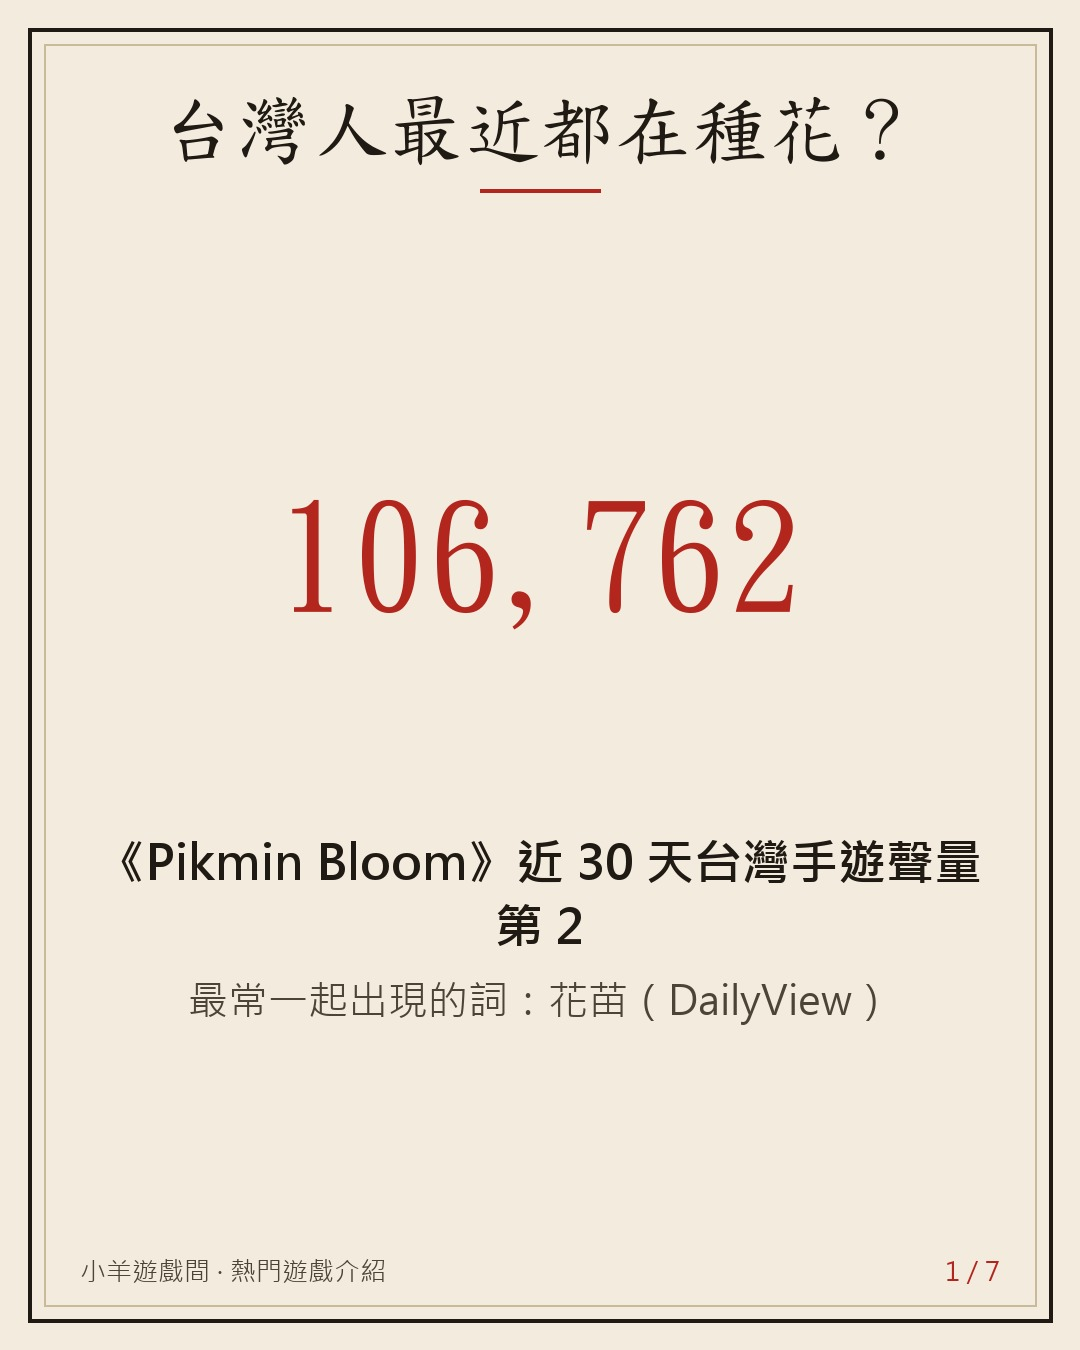
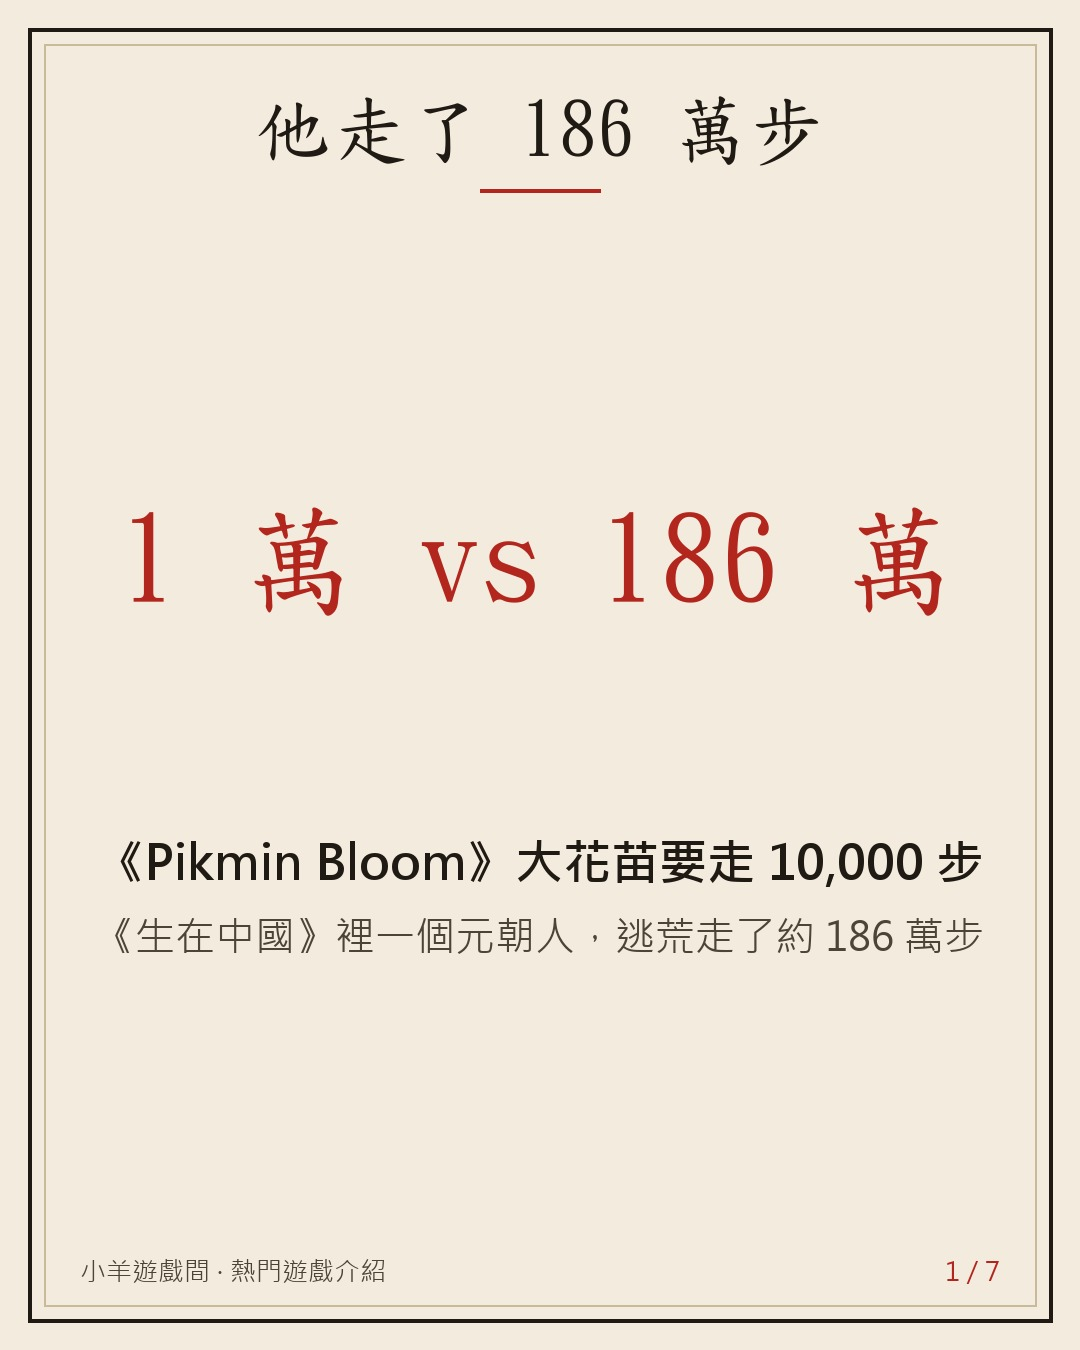
vault backup: 2026-10-24 22:38:15

diff --git a/Projects/auto promotion/posts/2.md b/Projects/auto promotion/posts/2.md
@@ -1,0 +1,147 @@
+---
+id: 2
+type: popular
+game: Pikmin Bloom
+topic: "Pikmin Bloom：走路養花苗 × 古人一輩子走多遠（生在中國 97.6% 沒離開出生那一區）"
+status: 草稿
+created: 2026-10-25 13:55
+score:
+---
+# 大花苗 10,000 步，他走了 186 萬步：我去查了《Pikmin Bloom》
+
+## Threads
+### 1
+《Pikmin Bloom》的大花苗，要走 10,000 步。
+我們遊戲裡跑出一個元朝人：他逃荒走了大約 186 萬步，一路沒有花。
+
+先說這個最近很紅的走路遊戲，我好奇去翻了一下它怎麼設計的 👇
+![[2/01.jpg]]
+### 2
+DailyView 9/25–10/24 的熱門手遊聲量，它 106,762 筆，排第 2，只輸神魔之塔。熱門關鍵字是「花苗」。
+
+它是 Niantic 和任天堂合作的，2021 年 10 月底起陸續上架，免費（有內購）。
+上架兩週，下載兩百萬。
+
+玩法很簡單：
+你走路，手機記步數。
+步數把花苗養大，拔出來就是一隻皮克敏，跟在你後面一起走。
+走過的地方會開花，留下一條彩色的路。
+
+簡單講，它把「今天有沒有出門」畫成一張地圖。
+![[2/02.jpg]]
+### 3
+花苗要走幾步才長大？（NOWnews 的整理）
+紅、黃、藍：1,000 步
+紫、白：3,000 步
+羽翅、岩石、冰凍：5,000 步
+大花苗：10,000 步，可以長出戴飾品的皮克敏
+
+10/10–11 的社群日，也是一天走滿 10,000 步才拿得到徽章。
+所以在這個遊戲裡，一萬步是「大目標」。
+![[2/03.jpg]]
+### 4
+我最喜歡的設計，在官方說明裡一句話帶過：
+皮克敏跟你夠熟以後（餵花蜜、派去探險），會回到「你最初找到它花苗的地方」，帶回禮物，戴上就成了飾品皮克敏。
+
+也就是說，遊戲記得每一隻是在哪裡撿到的。
+對工程師來說，這只是多存一個位置欄位。
+對玩家來說，是「這隻是那天在公園撿的」。
+
+所以這樣來的飾品皮克敏，背後都記著一個地點。
+我覺得這招很聰明：同樣是收集，多了「在哪裡」，就多了一段回憶。做遊戲的人可以偷學 :p
+![[2/04.jpg]]
+### 5
+看完我想到我們做的《生在中國》。
+它也記你走到哪：每一生有一張地圖，搬家就畫一條線。
+
+我讓引擎跑了 35 個時期、70,000 生。
+97.6% 的人，一輩子沒離開出生的那一區（遊戲把中國分成十大區）。
+老實說，引擎目前只寫了一種搬家理由：逃荒。
+所以搬家比例最高的抗戰與內戰那段（24.8%），也全算在逃荒頭上——這是我還沒做好的地方 orz
+
+（遊戲引擎的數字，不是史料，有錯請指正）
+![[2/05.jpg]]
+### 6
+其中一生叫楊子明，1313 年生在元朝平江（今天的蘇州）。
+16 歲，平江鬧饑荒，他背起行囊跟著人群逃荒，到了汴梁。
+20 歲，汴梁又鬧饑荒，他又走，到了大都。
+
+兩趟直線大約 1,300 公里。用一步 70 公分算，大約 186 萬步。
+皮克敏的大花苗，10,000 步。
+他那 186 萬步，一路沒有花。
+
+16 到 20 歲這四年，他走完 186 萬步。
+之後 55 年，他沒再逃過荒，活到 75 歲。
+![[2/06.jpg]]
+![[2/07.jpg]]
+### 7
+想問大家：
+你一天大概走幾步？大花苗那 10,000 步，你通常幾天走完？
+
+下一篇想寫引擎裡的「逃荒」是怎麼算的，有興趣可以追蹤一下～
+### 連結
+想看看自己投胎到古代，一輩子會走多遠 👉 https://games.csiesheep.com/china_life/
+
+## Instagram
+大花苗 10,000 步。遊戲裡的他，逃荒走了 186 萬步。🌱
+《Pikmin Bloom》DailyView 9/25–10/24 手遊聲量排第 2。走路養花苗，大花苗要 10,000 步。
+
+我最喜歡的設計：皮克敏熟了以後，會走回當初撿到它花苗的地方。遊戲記得每一隻是在哪撿的。
+
+看完我用《生在中國》的引擎跑了 35 個時期、70,000 生：97.6% 一輩子沒離開出生的那一區（引擎目前只寫了逃荒這一種搬家理由，還沒做完 orz）。遊戲裡的楊子明 16 歲、20 歲各逃一次荒，直線約 1,300 公里，大約 186 萬步。
+
+你一天大概走幾步？大花苗那 10,000 步，你通常幾天走完？👇
+（引擎數字不是史料，有錯請指正）
+
+連結在主頁
+#PikminBloom #皮克敏 #走路 #生在中國 #小羊遊戲間
+
+卡片：![[2/01.jpg]] ![[2/02.jpg]] ![[2/03.jpg]] ![[2/04.jpg]] ![[2/05.jpg]] ![[2/06.jpg]] ![[2/07.jpg]]
+
+## Facebook
+🌱 大花苗 10,000 步，他走了 186 萬步
+
+《Pikmin Bloom》的大花苗要走 10,000 步。我們遊戲裡跑出一個元朝人：他逃荒走了大約 186 萬步，一路沒有花。
+
+先說這個最近很紅的走路遊戲。DailyView 9/25–10/24 的熱門手遊聲量，《Pikmin Bloom》106,762 筆，排第 2，只輸神魔之塔；熱門關鍵字是「花苗」。
+
+👣 它怎麼玩
+Niantic 和任天堂合作的，2021 年 10 月底起陸續上架，免費（有內購），上架兩週下載兩百萬。你走路，步數把花苗養大，拔出來就是一隻皮克敏跟著你走；走過的地方會開花，留下一條彩色的路。簡單講，它把「今天有沒有出門」畫成一張地圖。
+
+🔢 花苗要走幾步（NOWnews 整理）
+紅黃藍 1,000 步、紫白 3,000 步、羽翅岩石冰凍 5,000 步，大花苗 10,000 步、可以長出戴飾品的皮克敏。10/10–11 社群日，也是一天走滿 10,000 步才有徽章。
+
+💡 我最喜歡的設計
+皮克敏跟你夠熟以後（餵花蜜、派去探險），會回到「你最初找到它花苗的地方」，帶回禮物，戴上就成了飾品皮克敏。遊戲記得每一隻是在哪裡撿到的——對工程師來說只是多存一個位置欄位，對玩家來說是「這隻是那天在公園撿的」。同樣是收集，多了「在哪裡」，就多了一段回憶，做遊戲的人可以偷學。
+
+🗺 那古人一輩子走多遠？
+看完我想到我們做的《生在中國》，它也會畫你一生的地圖。我讓引擎跑了 35 個時期、70,000 生：97.6% 的人一輩子沒離開出生的那一區（遊戲把中國分成十大區）。老實說，引擎目前只寫了一種搬家理由：逃荒，所以搬家比例最高的抗戰與內戰那段（24.8%）也全算在逃荒頭上——這是我還沒做好的地方 orz
+
+其中一生叫楊子明，1313 年生在元朝平江（今天的蘇州）。16 歲平江鬧饑荒，他跟著人群逃到汴梁；20 歲汴梁又鬧饑荒，他又走到大都。兩趟直線大約 1,300 公里，用一步 70 公分算，大約 186 萬步。大花苗只要 10,000 步，他那 186 萬步一路沒有花。16 到 20 歲這四年走完 186 萬步，之後 55 年他沒再逃過荒，活到 75 歲。
+
+（這是遊戲引擎的數字，不是史料，有錯請指正）
+
+❓ 你一天大概走幾步？大花苗那 10,000 步，你通常幾天走完？下一篇想寫引擎裡的「逃荒」是怎麼算的。
+
+想看看自己投胎到古代會走多遠 👉 https://games.csiesheep.com/china_life/
+
+相簿：同 Instagram 卡片（7 張）
+
+## Sources
+- https://dailyview.tw/top100/topic/51 — 熱門手遊聲量排行 2026.09.25–10.24：Pikmin Bloom 第 2，106,762；神魔之塔第 1；熱門關鍵字「花苗」（頁面未標明統計地區，文中不寫「台灣」）
+- https://en.wikipedia.org/wiki/Pikmin_Bloom — Niantic 開發、2021 年 10 月底起上架、免費＋內購、上架兩週兩百萬下載、走路開花留下軌跡
+- https://pikminbloom.com/zh_hant — 官方（友好度靠餵精華或派去探險提升）：拔出的皮克敏跟著你走；友好度夠高會回到最初找到花苗的地方帶回物品成為飾品皮克敏；走過的地方留下彩色軌跡
+- https://www.nownews.com/news/6806248 — 花苗步數表（1,000／3,000／5,000）、大花苗 10,000 步會帶飾品（2026-04-12，更新 2026-05-15）
+- https://forum.gamer.com.tw/C.php?bsn=72889&snA=964 — 2026-10-10／11 社群日，一天 10,000 步得薊花種植員徽章
+- 任天堂合作：https://aphnetworks.com/news/24608-nintendo-and-niantic-launch-pikmin-bloom
+- 引擎數字：~/code/china_life/engine/life.js，policy=auto、consistency v13，35 個可跑的時期 × 2,000 生（seed 7000001+i×104729）＝70,000 生；沒有搬家 68,318（97.6%）；搬家理由全是 flee_famine；各時期搬家比例最高為 kangzhan 24.8%（periods.csv：kangzhan＝抗戰與內戰 1937–1950），其次 minguo 22.3%（腳本 scratchpad moves.mjs）
+- 楊子明：seed 1194751197 period yuan（reels/china_life/4；1313 生於平江、1329 逃荒到汴梁、1333 到大都、享年 75；20 歲後引擎沒有再搬家）；畫面截圖取自該錄影 frames 001614、002543
+- 距離：蘇州(31.30N,120.62E)→開封(34.80N,114.31E) 705 km，開封→北京(39.90N,116.40E) 596 km，合計約 1,301 km 大圓距離；1,301,000 m ÷ 0.7 m ≈ 186 萬步
+
+## 打磨紀錄
+| 回合 | 1 | 2 | 3 | 4 | 5 | 6 | 7 | 8 | 9 | 10 | 平均 | 主要修改 |
+|---|---|---|---|---|---|---|---|---|---|---|---|---|
+| 1 | 7 | 9 | 7 | 8 | 8 | 7 | 8 | 9 | 8 | 9 | 8.0 | 鉤子改 10,000 vs 186 萬步；刪無來源小技巧；引擎只有逃荒改成自嘲；去掉「台灣」推論；結尾問題接回楊子明 |
+| 2 | 8 | 9 | 7 | 8 | 9 | 7 | 8 | 8 | 7 | 8 | 7.9 | 飾品說法照官方改；楊子明標明是遊戲裡的人；補 20 歲後 55 年的結尾；DailyView 移到第 2 則；結尾問題改問讀者自己的步數；饑荒段拿掉 :p；加一句設計心得 |
+
+## 發文紀錄

diff --git a/Projects/auto promotion/2026-10-25.md b/Projects/auto promotion/2026-10-25.md
@@ -23,3 +23,5 @@
 | 13:08 | games-stats-hourly | 完成 | 13:07 生在中國 478 局／56 人（昨同時 1,237／127）；蓋牌投票箱 8 局／7 人（昨同時 17／12） |  |
 | 13:28 | promo-producer | 開始 | 存貨：分享卡 4、生在中國 Reel 1、貼文 popular 0/devnote 0、鬼唱詩 0；本輪寫一篇熱門遊戲介紹（popular） |  |
 | 13:31 | promo-producer | 進度 | 選題：熱門遊戲介紹《Pikmin Bloom》（DailyView 9/25–10/24 台灣手遊聲量第 2）；橋接引擎數字：35 個時期 7 萬生 97.6% 一輩子沒離開出生那一區 |  |
+| 13:33 | promo-producer | 進度 | 貼文 #2《台灣人最近都在種花？我去查了 Pikmin Bloom》初稿與 7 張卡完成，送 judge 打磨 |  |
+| 13:36 | manual | 發文 | IG：生在中國開發日記輪播 6 張＋連結留言；之後切回 gui.chang.shi（小羊指示） | https://www.instagram.com/p/De5988gG01w/ |

diff --git a/Projects/auto promotion/posts/1.md b/Projects/auto promotion/posts/1.md
@@ -16,4 +16,4 @@ score: (小羊親自確認，未經 judge)
 ## 發文紀錄
 - Threads（7 則串文）：https://www.threads.com/@csiesheep.games/post/De53DNEFCc8
 - Facebook 粉專：已發（長文＋6 張卡）
-- Instagram：台灣 13:31 發（輪播 6 張）
+- Instagram（輪播 6 張＋連結留言，13:36）：https://www.instagram.com/p/De5988gG01w/
